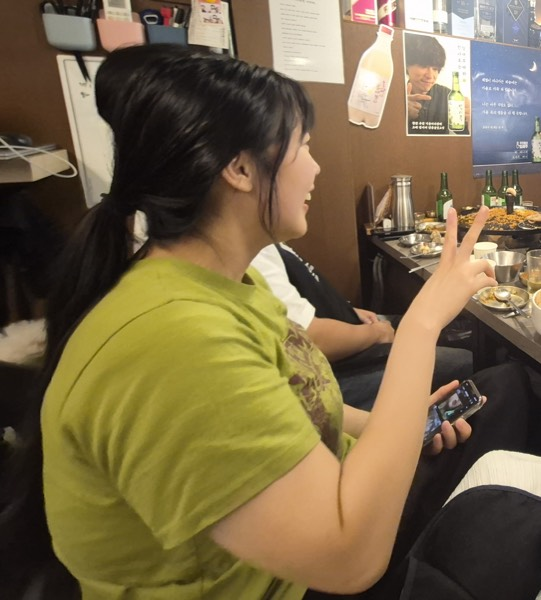
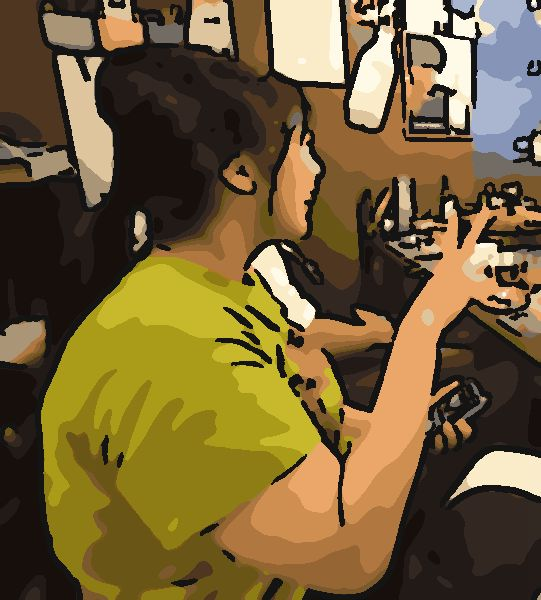
사진을 만화 스타일로 변환

diff --git a/tools/toon.py b/tools/toon.py
@@ -1,0 +1,22 @@
+import cv2, numpy as np
+def toon(src, dst):
+    img = cv2.imread(src)
+    c = img
+    for _ in range(4): c = cv2.bilateralFilter(c, 9, 50, 9)
+    Z = c.reshape(-1, 3).astype(np.float32)
+    _, lab, cen = cv2.kmeans(Z, 20, None, (cv2.TERM_CRITERIA_EPS + cv2.TERM_CRITERIA_MAX_ITER, 15, 1.0), 2, cv2.KMEANS_PP_CENTERS)
+    q = cv2.medianBlur(cen[lab.flatten()].reshape(img.shape).astype(np.uint8), 7)
+    hsv = cv2.cvtColor(q, cv2.COLOR_BGR2HSV).astype(np.float32)
+    hsv[..., 1] = np.clip(hsv[..., 1] * 1.3, 0, 255); hsv[..., 2] = np.clip(hsv[..., 2] * 1.08, 0, 255)
+    q = cv2.cvtColor(hsv.astype(np.uint8), cv2.COLOR_HSV2BGR)
+    g = cv2.GaussianBlur(cv2.cvtColor(c, cv2.COLOR_BGR2GRAY), (5, 5), 0)
+    e = cv2.adaptiveThreshold(g, 255, cv2.ADAPTIVE_THRESH_MEAN_C, cv2.THRESH_BINARY, 11, 6)
+    ink = (e == 0).astype(np.uint8)
+    n, lbl, st, _ = cv2.connectedComponentsWithStats(ink, connectivity=8)
+    keep = np.zeros_like(ink)
+    for k in range(1, n):
+        if st[k, cv2.CC_STAT_AREA] >= 45: keep[lbl == k] = 1   # 벽 질감 같은 작은 얼룩 제거
+    keep = cv2.dilate(keep, np.ones((2, 2), np.uint8))
+    out = q.copy(); out[keep == 1] = (20, 20, 20)
+    cv2.imwrite(dst, out, [cv2.IMWRITE_JPEG_QUALITY, 80])
+for i in range(1, 5): toon(f'/tmp/orig/{i}.jpg', f'img/{i}.jpg')
